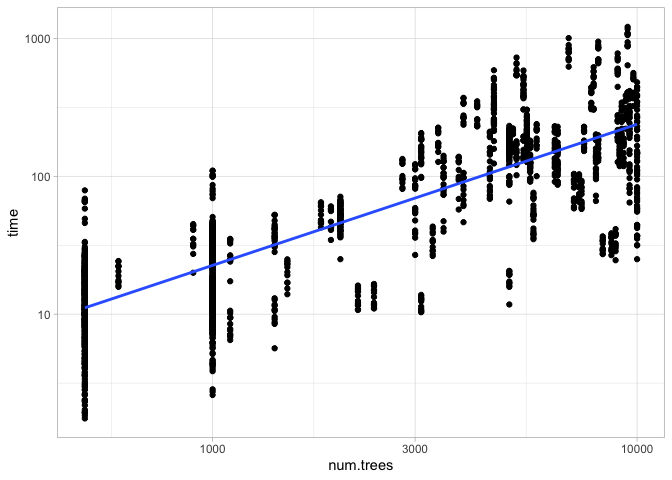
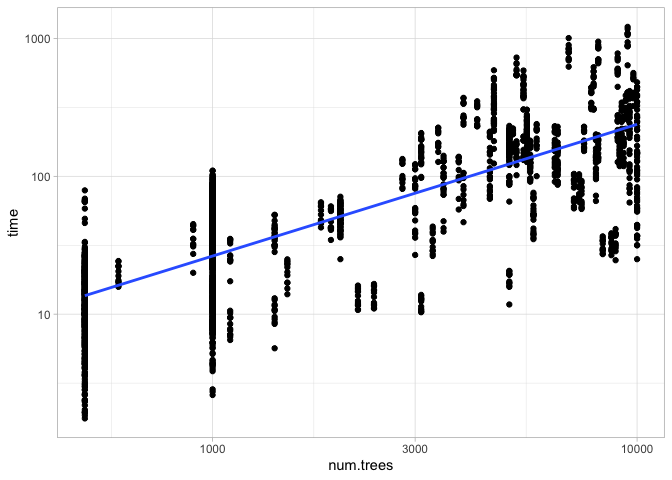
finish tuning experiments

diff --git a/2022-update/tuning-experiments.md b/2022-update/tuning-experiments.md
@@ -3,7 +3,7 @@ RF tuning experiments
 
 Author: Andreas Beger  
 Date: 17 March 2022  
-Last compiled: 17 March 2022
+Last compiled: 18 March 2022
 
 The random forest forecasting models have a number of hyperparameters
 that have to be set outside of the usual model training process.
@@ -25,7 +25,8 @@ both on my Mac laptop and the Windows machine. The script is setup to
 save experimental runs to timestamped files, and combine any files
 matching that pattern into a joint tune results file. I used Dropbox as
 an intermediary to hold the results, and in the end copied the final
-results file to the `2022-update/data/` folder.*
+results file to the `2022-update/data/` folder. The file on Dropbox is
+at `~/Dropbox/Work/vdem/demspaces/tuning/all-results.rds`.*
 
 Here is the tuning experiments data:
 
@@ -35,7 +36,7 @@ suppressPackageStartupMessages({
   library(ggplot2)
 })
 
-tr <- readRDS("~/Dropbox/Work/vdem/demspaces/tuning/all-results.rds")
+tr <- readRDS(here::here("2022-update/data/tuning-results.rds"))
 
 head(tr)
 ```
@@ -55,7 +56,7 @@ head(tr)
 glimpse(tr)
 ```
 
-    ## Rows: 2,220
+    ## Rows: 2,520
     ## Columns: 11
     ## $ source_file   <chr> "rf-tune-results_2022-03-12_104503.rds", "rf-tune-result…
     ## $ outcome       <chr> "v2xcl_rol", "v2x_pubcorr", "v2x_veracc_osp", "v2xcs_ccs…
@@ -150,7 +151,8 @@ even 500 is sufficient with the correct settings for “min.node.size” and
 “mtry”. However, with a higher number of trees, the random element in
 the forecasts for specific cases due to the inherent randomness of
 random forest stabilizes, so I use a higher value. See the [RF
-stability](rf-stability.md) note.
+stability](https://github.com/vdeminstitute/demspaces/blob/main/2022-update/rf-stability.md)
+note.
 
 Lastly, “mtry” is more complicated.
 
@@ -272,21 +274,21 @@ summary(mdl)
     ## lm(formula = log(time) ~ log(num.trees) * log(mtry), data = tr)
     ## 
     ## Residuals:
-    ##      Min       1Q   Median       3Q      Max 
-    ## -0.84817 -0.15603  0.02033  0.15317  0.56336 
+    ##     Min      1Q  Median      3Q     Max 
+    ## -0.8574 -0.1510  0.0171  0.1568  0.6097 
     ## 
     ## Coefficients:
     ##                           Estimate Std. Error t value Pr(>|t|)    
-    ## (Intercept)              -5.540492   0.100002 -55.404   <2e-16 ***
-    ## log(num.trees)            0.969440   0.012699  76.339   <2e-16 ***
-    ## log(mtry)                 0.755271   0.037340  20.227   <2e-16 ***
-    ## log(num.trees):log(mtry)  0.002886   0.004696   0.615    0.539    
+    ## (Intercept)              -5.771154   0.094470 -61.090   <2e-16 ***
+    ## log(num.trees)            0.994996   0.012114  82.138   <2e-16 ***
+    ## log(mtry)                 0.873347   0.033932  25.738   <2e-16 ***
+    ## log(num.trees):log(mtry) -0.010200   0.004348  -2.346   0.0191 *  
     ## ---
     ## Signif. codes:  0 '***' 0.001 '**' 0.01 '*' 0.05 '.' 0.1 ' ' 1
     ## 
-    ## Residual standard error: 0.2183 on 2216 degrees of freedom
-    ## Multiple R-squared:  0.9719, Adjusted R-squared:  0.9718 
-    ## F-statistic: 2.551e+04 on 3 and 2216 DF,  p-value: < 2.2e-16
+    ## Residual standard error: 0.2145 on 2516 degrees of freedom
+    ## Multiple R-squared:  0.9695, Adjusted R-squared:  0.9694 
+    ## F-statistic: 2.662e+04 on 3 and 2516 DF,  p-value: < 2.2e-16
 
 Basically “mtry” and “num.trees” are the main things impacting model
 training time, and both have similarly-sized impacts on training time.
